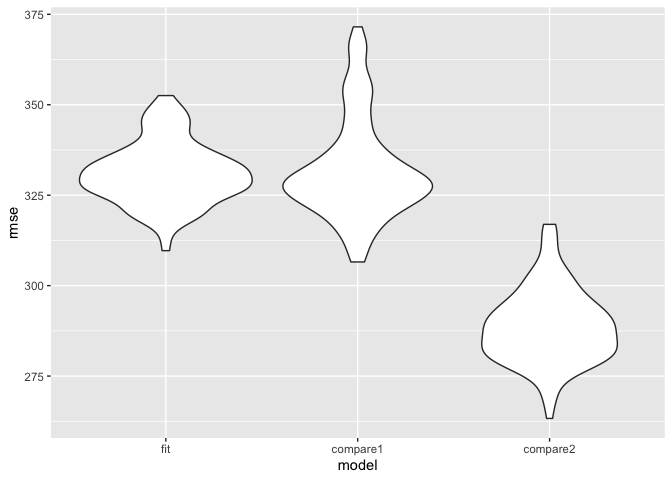
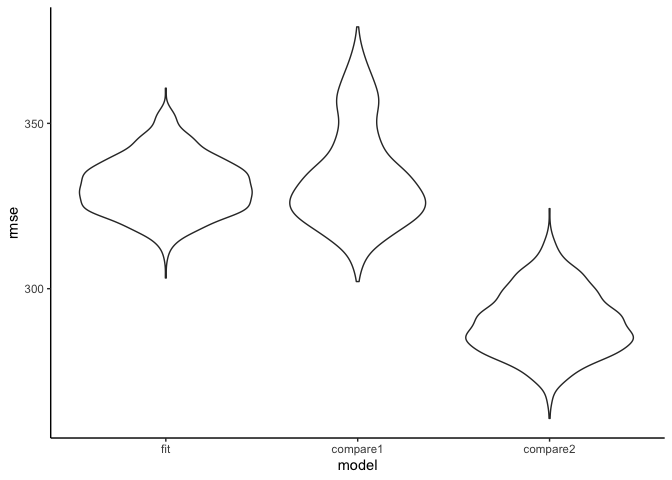
HW6_Q3_Complete

diff --git a/p8105_HW6_sp3804.md b/p8105_HW6_sp3804.md
@@ -7,14 +7,14 @@ Seonyoung Park (sp3804)
 library(tidyverse)
 ```
 
-    ## ── Attaching packages ─────────────────────── tidyverse 1.3.0 ──
+    ## ── Attaching packages ───────────────────────────────────────────────────────── tidyverse 1.3.0 ──
 
     ## ✓ ggplot2 3.2.1     ✓ purrr   0.3.4
     ## ✓ tibble  3.0.1     ✓ dplyr   1.0.2
     ## ✓ tidyr   1.0.2     ✓ stringr 1.4.0
     ## ✓ readr   1.3.1     ✓ forcats 0.4.0
 
-    ## ── Conflicts ────────────────────────── tidyverse_conflicts() ──
+    ## ── Conflicts ──────────────────────────────────────────────────────────── tidyverse_conflicts() ──
     ## x dplyr::filter() masks stats::filter()
     ## x dplyr::lag()    masks stats::lag()
 
@@ -315,7 +315,10 @@ broom::tidy(fit_final) %>%
 
 ### Diagnostics
 
-Plot the residuals
+When we plot the residual along each maternal race category, we may
+notice the residual is highly skewed for “Black” race category.
+
+Plot the residuals along fitted value
 
   - Even though the residuals are not skewed for all maternal race
     category, in general, the residuals are pretty high in this model.
@@ -324,9 +327,9 @@ Plot the residuals
 <!-- end list -->
 
 ``` r
-modelr::add_residuals(birthweight,fit_final) %>%
+birthweight %>%
   ggplot(aes(x=bwt, y=resid, color=mrace)) +
-  geom_point() +labs(title = "<Residuals against fitted value>") + 
+  geom_point() +labs(title = "<Residuals against fitted value>") + facet_wrap("mrace")+
   theme_classic()
 ```
 
@@ -406,7 +409,7 @@ Cross validation using ‘modelr’
 
 ``` r
 cv_df =
-  crossv_mc(birthweight, 100) %>% 
+  crossv_mc(birthweight, 1000) %>% 
   mutate(
     train = map(train, as_tibble),
     test = map(test, as_tibble))
@@ -437,7 +440,151 @@ cv_df %>%
     values_to = "rmse",
     names_prefix = "rmse_") %>% 
   mutate(model = fct_inorder(model)) %>% 
-  ggplot(aes(x = model, y = rmse)) + geom_violin()
+  ggplot(aes(x = model, y = rmse)) + geom_violin() +theme_classic()
 ```
 
 ![](p8105_HW6_sp3804_files/figure-gfm/unnamed-chunk-12-1.png)<!-- -->
+
+## Problem 3
+
+### Data loading
+
+``` r
+weather_df = 
+  rnoaa::meteo_pull_monitors(
+    c("USW00094728"),
+    var = c("PRCP", "TMIN", "TMAX"), 
+    date_min = "2017-01-01",
+    date_max = "2017-12-31") %>%
+  mutate(
+    name = recode(id, USW00094728 = "CentralPark_NY"),
+    tmin = tmin / 10,
+    tmax = tmax / 10) %>%
+  select(name, id, everything())
+```
+
+    ## Registered S3 method overwritten by 'hoardr':
+    ##   method           from
+    ##   print.cache_info httr
+
+    ## using cached file: /Users/shannon/Library/Caches/R/noaa_ghcnd/USW00094728.dly
+
+    ## date created (size, mb): 2020-12-04 18:19:30 (7.534)
+
+    ## file min/max dates: 1869-01-01 / 2020-12-31
+
+### linear model
+
+``` r
+temp_model = lm(tmax ~tmin, data=weather_df)
+
+broom::glance(temp_model)
+```
+
+    ## # A tibble: 1 x 12
+    ##   r.squared adj.r.squared sigma statistic   p.value    df logLik   AIC   BIC
+    ##       <dbl>         <dbl> <dbl>     <dbl>     <dbl> <dbl>  <dbl> <dbl> <dbl>
+    ## 1     0.912         0.911  2.94     3741. 2.98e-193     1  -910. 1827. 1838.
+    ## # … with 3 more variables: deviance <dbl>, df.residual <int>, nobs <int>
+
+``` r
+beta = broom::tidy(temp_model) %>%
+  select(term,estimate) %>%
+  set_value_labels(term=c(Beta0="(Intercept)", Beta1="tmin"))%>%
+  mutate_if(is.labelled,to_factor) %>%
+  pivot_wider(
+    names_from = term,
+    values_from = estimate
+  ) 
+```
+
+### Bootstrap
+
+``` r
+boot_straps= weather_df %>% 
+  modelr::bootstrap(n = 5000) %>% 
+  mutate(
+    temp_model = map(strap, ~lm(tmax ~tmin, data=.x)),
+    results = map(temp_model, broom::tidy),
+    summary= map(temp_model, broom::glance)
+    ) 
+```
+
+### Plot the distribution of your estimates, and describe these in words.
+
+``` r
+boot_straps %>% 
+  select(-strap, -.id, -temp_model) %>% 
+  unnest(summary) %>%
+  ggplot(aes(x = r.squared)) + geom_density() +theme_classic()+
+  labs(title="<Distribution of R^2 estimation>")
+```
+
+![](p8105_HW6_sp3804_files/figure-gfm/unnamed-chunk-16-1.png)<!-- -->
+
+``` r
+boot_straps %>% 
+  select(-strap, -.id, -temp_model) %>% 
+  unnest(results) %>% 
+  select(term,estimate) %>%
+  set_value_labels(term=c(Beta0="(Intercept)", Beta1="tmin"))%>%
+  mutate_if(is.labelled,to_factor) %>%
+  ggplot(aes(x = estimate, color=term)) + geom_density() +theme_classic()+facet_wrap("term")+
+  labs(title="<Distribution of coefficients estimation>")
+```
+
+![](p8105_HW6_sp3804_files/figure-gfm/unnamed-chunk-16-2.png)<!-- -->
+
+### 95% CI for R^2
+
+``` r
+boot_straps %>% 
+  select(-strap, -.id, -temp_model) %>% 
+  unnest(summary) %>% 
+  summarize(
+    R2_CI_low = quantile(r.squared, 0.025),
+    R2_CI_upper = quantile(r.squared, 0.975)
+  )
+```
+
+    ## # A tibble: 1 x 2
+    ##   R2_CI_low R2_CI_upper
+    ##       <dbl>       <dbl>
+    ## 1     0.894       0.927
+
+### 95% CI for log(B0\*B1)
+
+``` r
+boot_straps %>% 
+  select(-strap, -.id, -temp_model) %>% 
+  unnest(results) %>% 
+  select(term,estimate) %>%
+  set_value_labels(term=c(Beta0="(Intercept)", Beta1="tmin"))%>%
+  mutate_if(is.labelled,to_factor) %>%
+  pivot_wider(
+    names_from = term,
+    values_from = estimate
+  ) %>%
+  unnest() %>%
+  mutate(
+    log_B0_B1 = Beta0*Beta1
+  ) %>%
+  summarize(
+    CI_low = quantile(log_B0_B1, 0.025),
+    CI_upper = quantile(log_B0_B1, 0.975),
+
+  )
+```
+
+    ## Warning: Values in `estimate` are not uniquely identified; output will contain list-cols.
+    ## * Use `values_fn = list(estimate = list)` to suppress this warning.
+    ## * Use `values_fn = list(estimate = length)` to identify where the duplicates arise
+    ## * Use `values_fn = list(estimate = summary_fun)` to summarise duplicates
+
+    ## Warning: `cols` is now required.
+    ## Please use `cols = c(Beta0, Beta1)`
+
+    ## # A tibble: 1 x 2
+    ##   CI_low CI_upper
+    ##    <dbl>    <dbl>
+    ## 1   7.13     7.84
